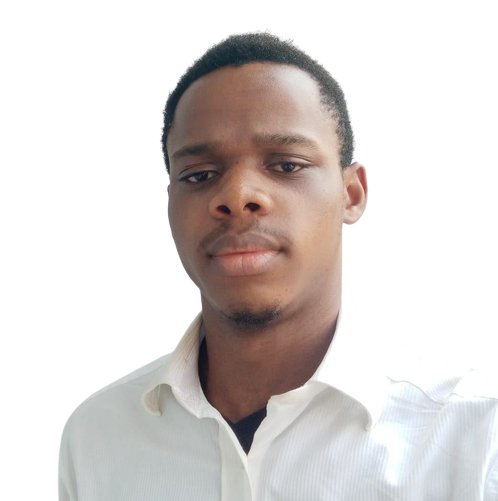
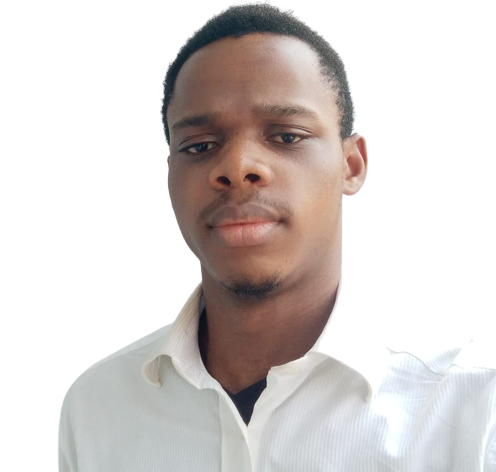
added status and modified image to give more space for nav-ba

diff --git a/styles.css b/styles.css
@@ -10,27 +10,38 @@
     box-sizing: border-box;
 }
 
+:root {
+    --main-color: #fab005;
+    --main-color2: #146ebe;
+    --shadow-color: #1f2937;
+    --backround-color: #f0f1f3;
+    --header-text-color: #146fbe67;
+    --header-text-color2: #4b4d50d8;
+}
+
 body {
     font-family: cera-round-pro, "Helvetica Neue", "Helvetica", "Arial", sans-serif;
-    background: #f0f1f3;
+    background: var(--backround-color);
 }
 header .nav-bar {
     display: flex;
     justify-content: space-between;
     align-items: center;
     background: #fff;
-    height: 150px;
+    height: 180px;
     padding: 10px;
 }
 
 header .nav-menu ul li{
     display: inline-block;
     padding: 0 30px ;
+
+    /* z-index: 10000; */
 }
 
 header .nav-menu ul a {
     text-decoration: none;
-    color: #146ebe;
+    color: var(--main-color2);
     font-size: 1.25rem;
     opacity: 70%;
     transition: all 0.3s ease-out;
@@ -81,8 +92,9 @@ main .banner {
     /* object-fit: contain; */
     width: 95%;
     margin-top: 10px;
-    border:1px solid #1f2937;
-    border-bottom: 5px solid #1f2937;
+    border:1px solid var(--shadow-color);
+    border-bottom: 5px solid var(--shadow-color);
+    border-right: 5px solid var(--shadow-color);
     border-radius: 40px;
 }
 
@@ -92,7 +104,7 @@ main .banner .greeting-text {
     font-weight: 600;
     padding-left: 150px;
     letter-spacing: 3px;
-    color: #4b4d50d8;
+    color: var(--header-text-color2);
 }
 
 main .banner .greeting-text::first-letter {
@@ -100,7 +112,7 @@ main .banner .greeting-text::first-letter {
 }
 
 main .banner .greeting-text span {
-    color: #146fbe67;
+    color: var(--header-text-color);
     display: block;
     font-size: 4rem;
     font-weight: 800;
@@ -114,19 +126,22 @@ main .banner .about {
 }
 
 main .banner img {
-    height: 99vh;
+    height: 94vh;
     position: absolute;
-    top: -17.25%;
+    /* top: -17.25%; */
+    top: -11.5%;
     right: 0;
     filter: grayscale();
     border-radius: 40px;
+    z-index: 0;
 }
 
 #about-me {
     margin-top: 30px;
     width: 95vw;
-    border: 1px solid #1f2937;
-    border-bottom: 5px solid #1f2937;
+    border: 1px solid var(--shadow-color);
+    border-bottom: 5px solid var(--shadow-color);
+    border-left: 5px solid var(--shadow-color);
     border-radius: 40px;
     display: flex;
     align-items: center;
@@ -146,3 +161,60 @@ main .banner img {
 #about-me .about-me p {
     font-size: 1rem;
 }
+
+#skills {
+    margin-top: 50px;
+    width: 85%;
+}
+
+#skills .logo {
+    display: flex;
+    align-items: center;
+    justify-content: space-between;
+}
+
+#skills h1 {
+    font-size: 2rem;
+}
+
+#skills .logo div {
+    font-size: 10rem;
+    width: 250px;
+    border: 1px solid var(--main-color2);
+    border-bottom: 5px solid var(--main-color2);
+    border-left: 5px solid var(--main-color2);
+    border-radius: 20%;
+    padding: 5px;
+    padding-bottom: 0;
+    text-align: center;
+    transition: all 0.2s ease;
+}
+
+#skills .logo div:hover {
+    transform: scale(1.05);
+}
+
+#skills .logo .salesforce {
+    color: #146ebe;
+}
+
+#skills .logo .css3 {
+    color: #146ebe;
+}
+
+#skills .logo .html5 {
+    color: #de4b25;
+}
+
+#skills .logo .python {
+    background: -webkit-linear-gradient(-70deg, rgba(25, 144, 245, 1) 30%, rgba(122, 197, 162, 1) 51%, rgba(216, 247, 83, 1) 100%);
+    -webkit-background-clip: text;
+    -webkit-text-fill-color: transparent;
+}
+
+/* #skills .logo .slack {
+    background: -webkit-linear-gradient(90deg, #3EB991 25%, #36C5F0 33%, #E01E5A 66%, #ECB22E 100%);
+    -webkit-background-clip: text;
+    -webkit-text-fill-color: transparent;
+} */
+

diff --git a/index.html b/index.html
@@ -17,9 +17,9 @@
                 <ul>
                     <a href="#"><li>Home</li></a>
                     <a href="#about-me"><li>About Me</li></a>
-                    <a href="#"><li>Skills</li></a>
-                    <a href="#"><li>Projects</li></a>
-                    <a href="#"><li>Contact Me</li></a>
+                    <a href="#skills"><li>Skills</li></a>
+                    <a href="#projects"><li>Projects</li></a>
+                    <a href="#contact-me"><li>Contact Me</li></a>
                     
                 </ul>
             </div>
@@ -50,6 +50,19 @@
                 <p>Lorem ipsum dolor sit amet, consectetur adipisicing elit. Maxime corrupti dolor reprehenderit? Doloremque recusandae, earum expedita consectetur repellendus odio quia veritatis aliquid at fugit nulla pariatur porro, ab sunt labore alias incidunt quaerat molestiae atque nisi aut! Veritatis quam nulla ex adipisci provident hic, natus nisi sint ipsam maiores perspiciatis, explicabo quis! Officia minus dolores corrupti nisi deserunt aspernatur omnis, aliquid nemo exercitationem, voluptatum maiores cum assumenda illum minima. Adipisci vitae debitis recusandae unde laborum.</p><br>
 
                 <p>Lorem ipsum dolor sit amet consectetur adipisicing elit. Possimus dolorum nam dignissimos iure labore modi consequatur hic sapiente vero voluptatem dicta accusamus, quos numquam cupiditate nostrum adipisci asperiores, quibusdam qui molestias quis, ad velit iusto? Quam optio, laborum, dignissimos assumenda sit nulla fugiat culpa voluptate, esse illo eveniet? Repudiandae totam consequuntur quis laboriosam nobis praesentium inventore, sequi esse eveniet ab iste corporis voluptatem tempora. Odit repellendus minima asperiores reprehenderit natus accusamus sed voluptates blanditiis quos nam! Similique nobis velit beatae accusantium nisi expedita, consequatur illum labore voluptate rem. Doloribus repellat nisi similique assumenda quidem, quos doloremque perferendis odit iste amet minus accusamus itaque obcaecati dignissimos ratione magni aliquam eos reiciendis natus adipisci ipsum inventore iure consequuntur voluptates. Totam, dolor qui.</p><br><br><br>
+            </div>
+        </section>
+
+        <section id="skills">
+            <h1>Skills</h1>
+            <br><br>
+            <div class="logo">
+                <div class="html5"><i class="fa-brands fa-html5"></i></div>
+                <div class="css3"><i class="fa-brands fa-css3-alt"></i></div>
+                <div class="python"><i class="fa-brands fa-python"></i></div>
+                <div class="github"><i class="fa-brands fa-github"></i></div>
+                <div class="slack"><i class="fa-brands fa-slack"></i></div>
+                <div class="salesforce"><i class="fa-brands fa-salesforce"></i></div>
             </div>
         </section>
     </main>
